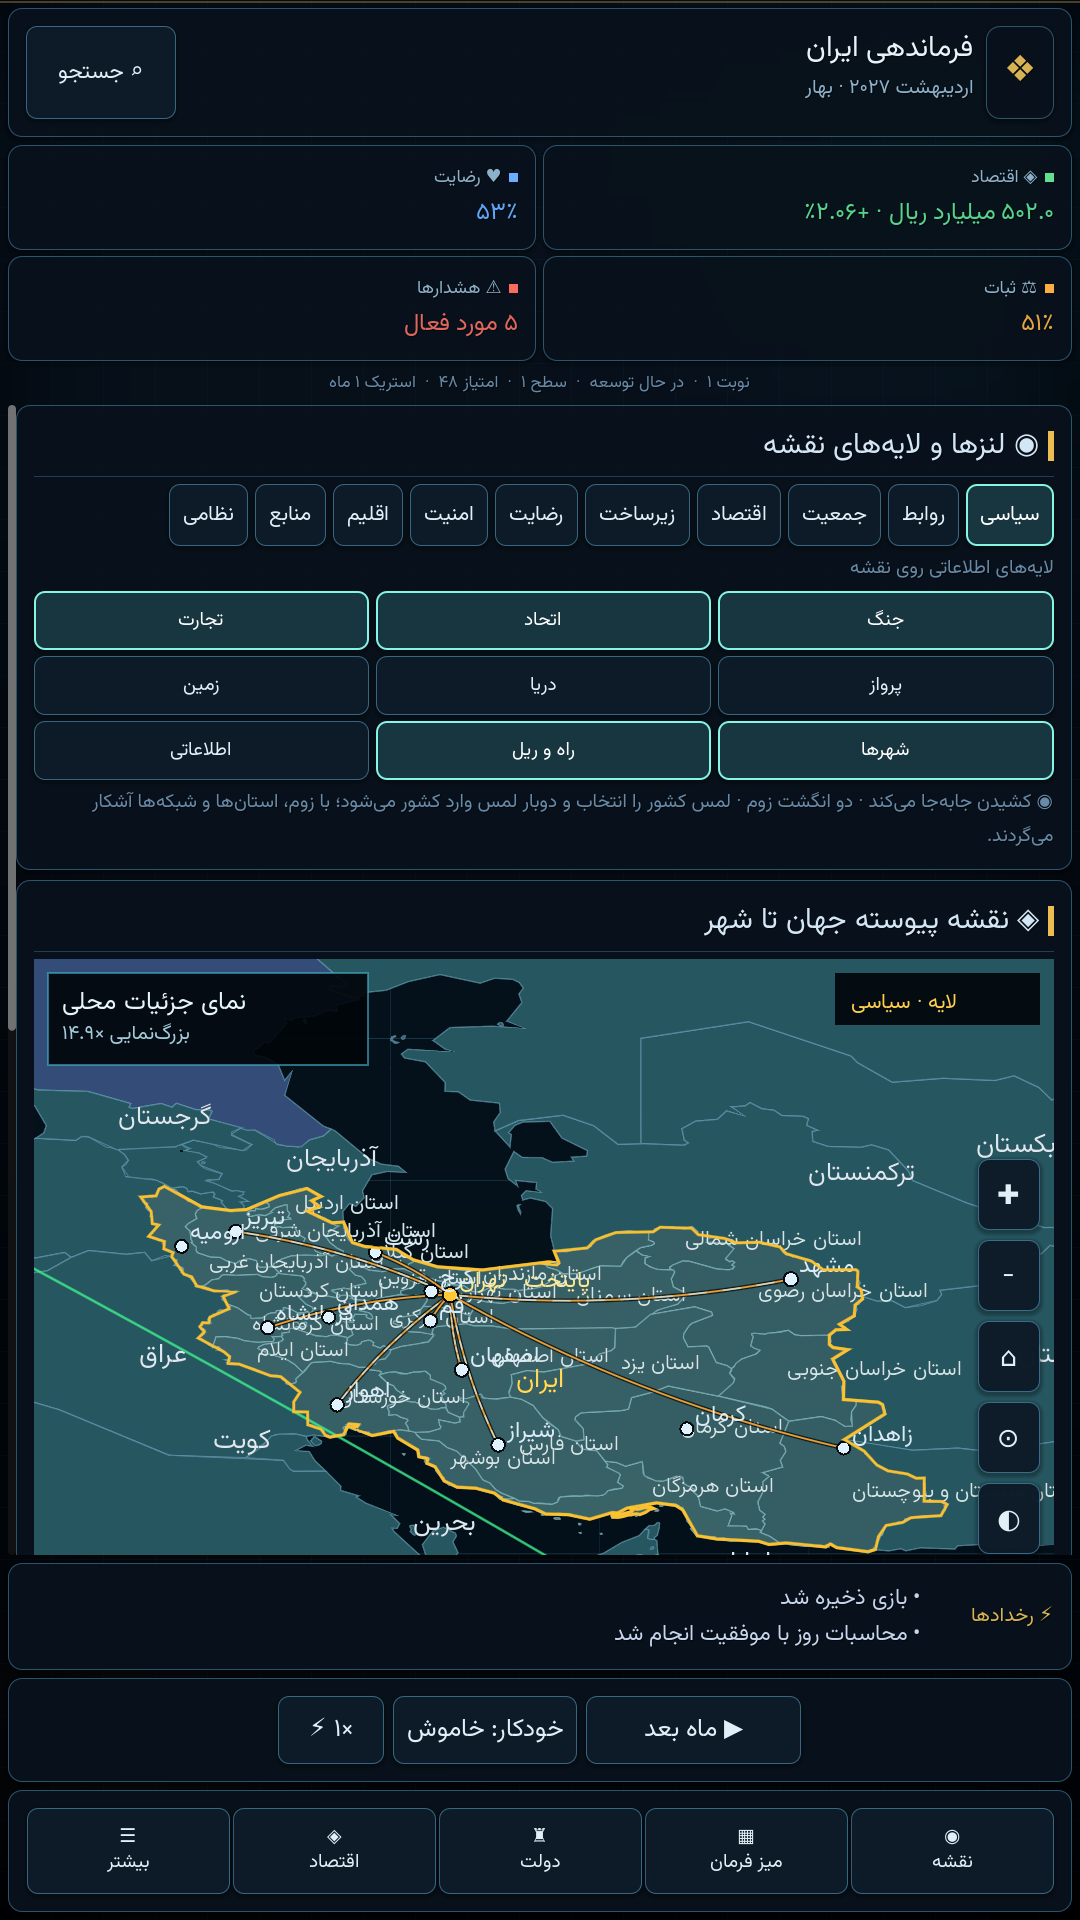
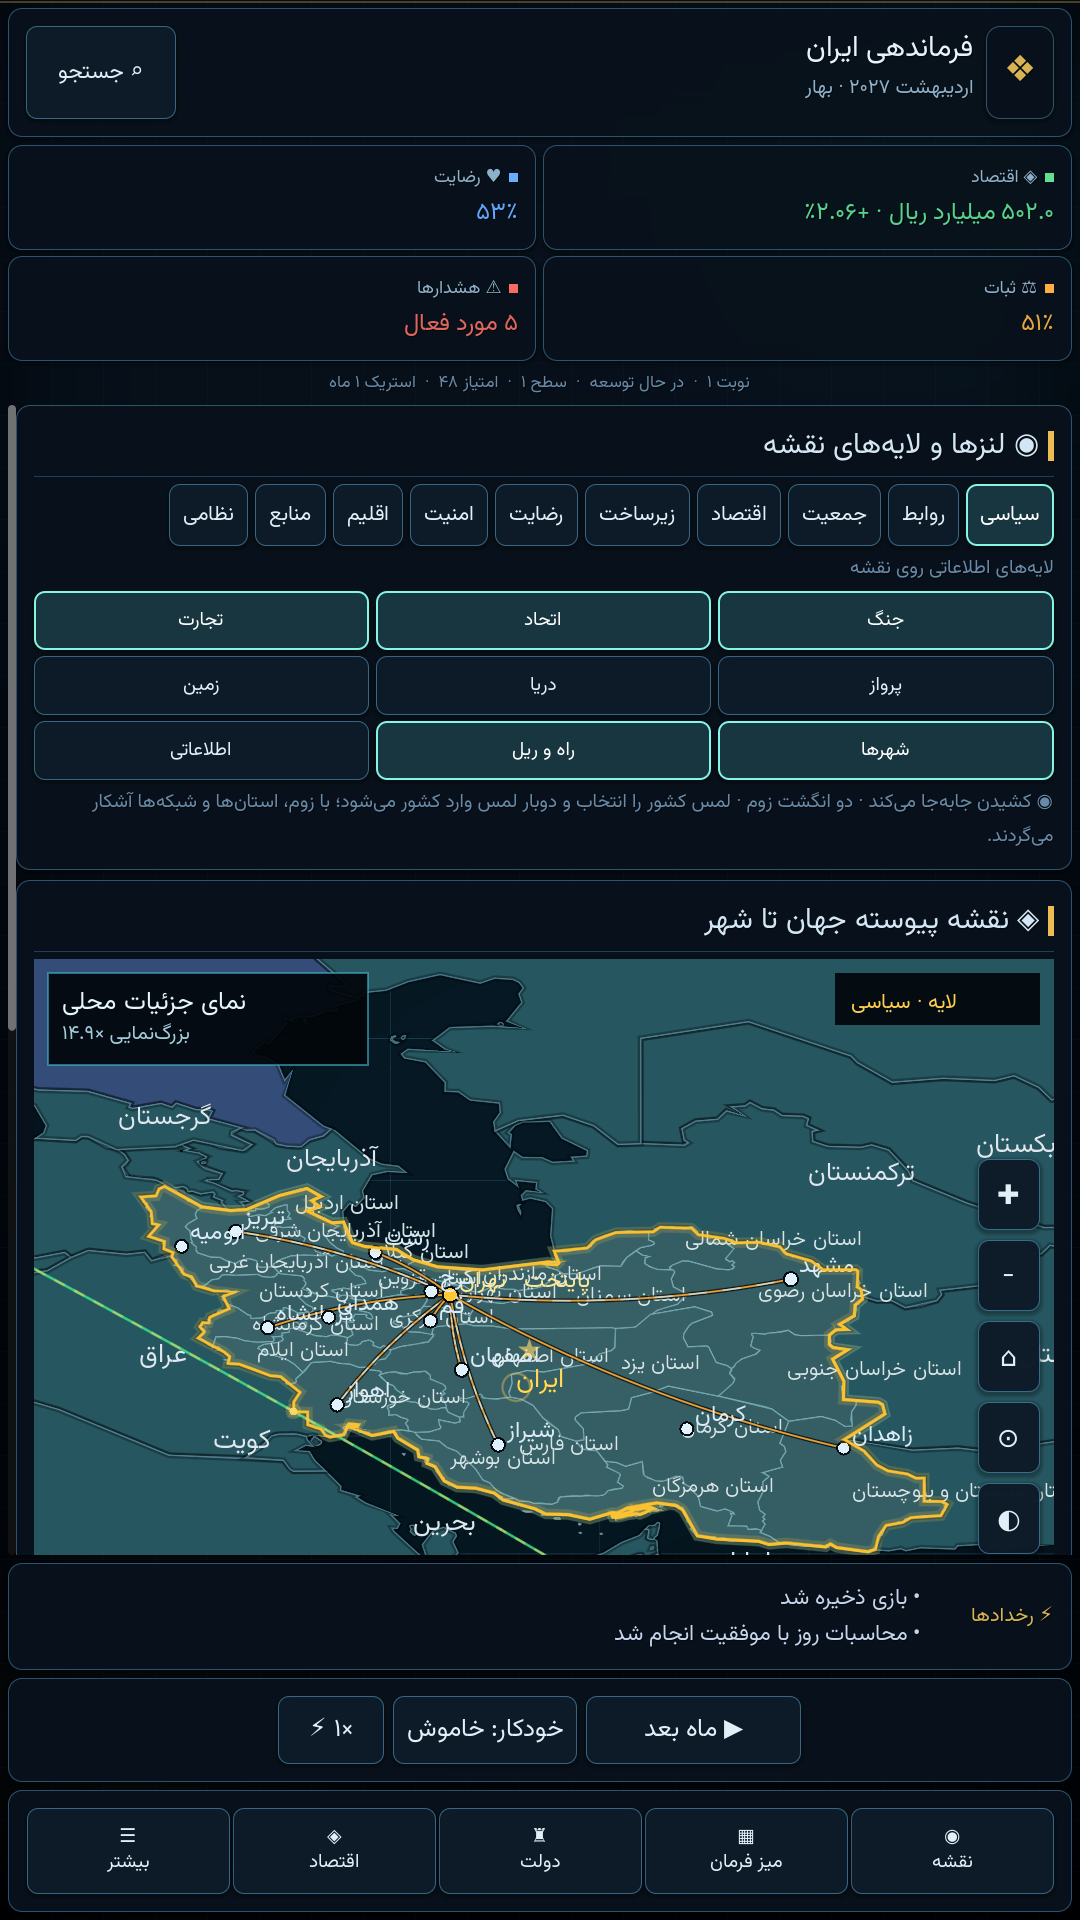
feat(graphics): پوسته گرافیکی سینمایی — نقشه زنده، هنر اختصاصی AI و افکتهای متحرک
- لایه افکت زنده نقشه (map_fx_layer): موج اقیانوس، پالس جنگ ⚔، جریان متحرک تجارت، ابر اقلیم، چراغ ★ پایتخت — نرخ محدود ۱۲ فریم، سازگار با reduce_motion و LOD
- رندر سینمایی: سایه ساحلی خشکی، هاله آبی کشور بازیکن، هاله طلایی کشور انتخابی، استخر نور اقیانوس
- هنر کلیدی اختصاصی رایگان (AI): بنر زمین در شب + نشان طلایی عقاب-کره شفافسازیشده در کارت قهرمان
- تپش تنفسی CTA — همه تستها سبز و دترمینیسم حفظ شد (۴۹۵۴ رویداد)

diff --git a/UI_DESIGN.md b/UI_DESIGN.md
@@ -124,3 +124,11 @@
 | نقشه فرماندهی + ستون دوربین | `docs/screenshots/ui_v2_command_map.png` |
 | میز فرمان + کارتهای KPI | `docs/screenshots/ui_v2_dashboard.png` |
 | کشوی بیشتر | `docs/screenshots/ui_v2_drawer.png` |
+
+## پوسته گرافیکی نسخه ۷.۱ — گذار به «بازی گرافیکی»
+
+- **هنر کلیدی اختصاصی (AI، رایگان و متعلق به پروژه):** بنر سینمایی «زمین در شب با مسیرهای تجاری» و نشان طلایی «عقاب و کره» (در `assets/art`) برای صفحه آغاز فرماندهی؛ نشان با حذف رنگ پسزمینه شفافسازی و هیچکدام از منابع خارجی/پولی استفاده نشده است.
+- **لایه افکت زنده نقشه** (`scripts/ui/map_fx_layer.gd`): موج نور اقیانوس در نمای جهان، پالس حلقهای ⚔ روی کشورهای در جنگ، جریان متحرک دشتهای طلایی و کاروان در مسیرهای تجارت، ابرهای شناور در لنز اقلیم و چراغ ★ پایتخت بازیکن. بازترسیم حداکثر ~۱۲ فریمبرثانیه، توقف کامل با `reduce_motion` و در حالت LOD حرکتی؛ هیچ اثری روی State یا دترمینیسم موتور ندارد.
+- **رندر سینمایی ایستا:** سایه ساحلی برای برجستهشدن خشکی از اقیانوس، هاله آبی اختصاصی کشور بازیکن، هاله طلایی نرم پشت مرز کشور انتخابی و استخر نور ملایم در اقیانوس — همه بدون هزینه فریم اضافه.
+- **تپش تنفسی** روی دکمههای کلیدی قهرمان (CTA شروع فرماندهی).
+- جریان بازی و APIهای نقشه/تست نگهبان بدون تغییر ماند؛ شمار رویدادهای تست بلندمدت (۴۹۵۴) بایتبهبایت ثابت مانده است.
